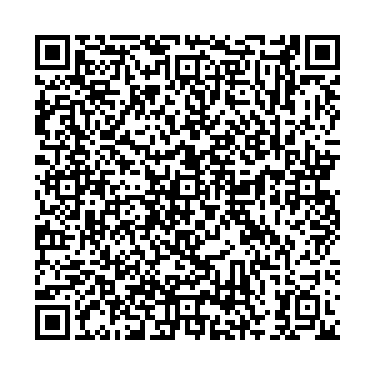
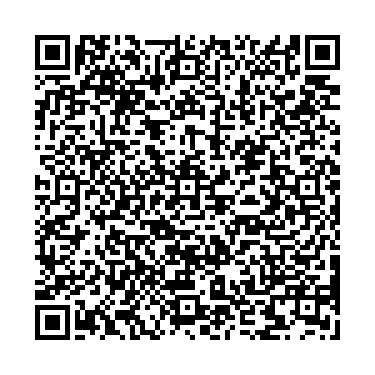
Se actualiza

Changed region(s): [[0.088, 0.088, 0.9093, 0.9093]]

diff --git a/app.js b/app.js
@@ -49,13 +49,10 @@ const flowDiscord = addKeyword(['discord']).addAnswer(
 )
 
 const flowPrincipal = addKeyword(['hola', 'ole', 'alo'])
-    .addAnswer('🙌 Hola bienvenido a este *Chatbot*')
+    .addAnswer('🙌 Hola bienvenido a *mi fafa*')
     .addAnswer(
         [
-            'te comparto los siguientes links de interes sobre el proyecto',
-            '👉 *doc* para ver la documentación',
-            '👉 *gracias*  para ver la lista de videos',
-            '👉 *discord* unirte al discord',
+            'Cómo estás?\nPara nosotros es un gusto atenderte.\nEn un minuto tomaremos tu pedido, este se responde por orden de llegada',
         ],
         null,
         null,
